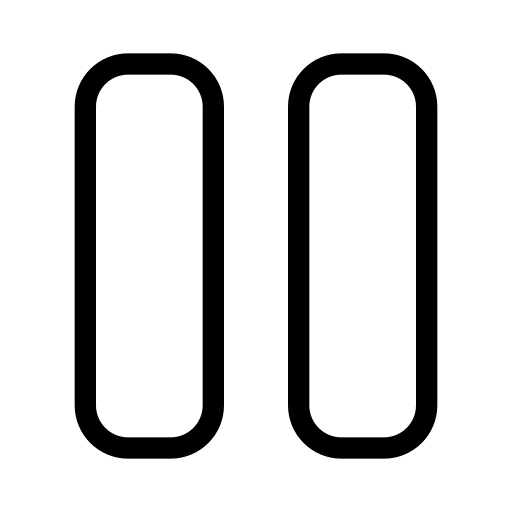
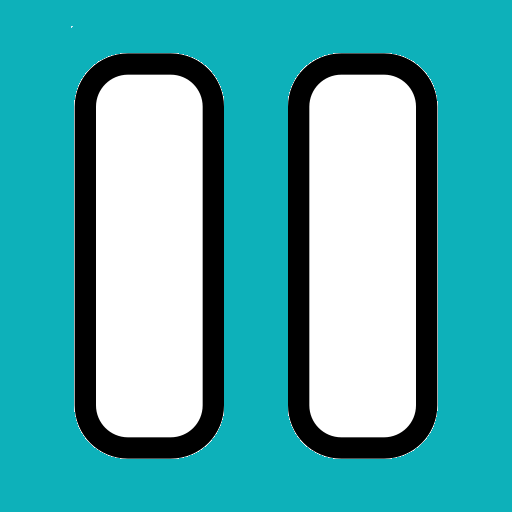
UCJeu ==> bouton pause + declenchement window Menu et declenchement reglesJeu dans la fenetre Menu

diff --git a/AquaSurvivor/Menu.xaml b/AquaSurvivor/Menu.xaml
@@ -1,0 +1,25 @@
+<Window x:Class="AquaSurvivor.Menu"
+        xmlns="http://schemas.microsoft.com/winfx/2006/xaml/presentation"
+        xmlns:x="http://schemas.microsoft.com/winfx/2006/xaml"
+        xmlns:d="http://schemas.microsoft.com/expression/blend/2008"
+        xmlns:mc="http://schemas.openxmlformats.org/markup-compatibility/2006"
+        xmlns:local="clr-namespace:AquaSurvivor"
+        mc:Ignorable="d"
+        Title="Menu" Height="308" Width="380" Background="#FF02ACB5">
+    <Grid>
+        <Label FontWeight="Bold" FontSize="18" Content="Vous êtes dans ....." Height="39" VerticalAlignment="Top"/>
+        <StackPanel Margin="0,49,0,0" Height="136" VerticalAlignment="Top" >
+            <Label Content="OBJECTIFS:  " FontSize="14" FontWeight="Bold"/>
+            <Label Content="1. OBJECTIFS: Attraper 30 perles pour passer à la rivière " FontSize="14" FontWeight="Bold"/>
+            <Label Content="2. OBJECTIFS: Attraper 40 perles pour passer au lac" FontWeight="Bold" FontSize="14"/>
+            <Label Content="3. OBJECTIFS: Attraper 55 perles pour passer à la mer" FontWeight="Bold" FontSize="14"/>
+            <Label Content="4. OBJECTIFS: Attraper 75 perles pour passer à l'océan" FontWeight="Bold" FontSize="14"/>
+        </StackPanel>
+        <Button x:Name="butReglesJeu" Content="REGLES DU JEU" Margin="110,197,0,0" VerticalAlignment="Top" Height="34" FontWeight="Bold" Click="butReglesJeu_Click" HorizontalAlignment="Left" Width="160"/>
+        <Button x:Name="butReprendre" Content="" Margin="110,236,0,0" Click="butReprendre_Click" HorizontalAlignment="Left" Width="38" Height="29" VerticalAlignment="Top"/>
+        <Button x:Name="butRejouer" Content="" HorizontalAlignment="Left" Margin="171,236,0,0" VerticalAlignment="Top" Height="29" Width="38" Click="butQuitterPartie_Click"/>
+        <Button x:Name="butQuitterPartie" Content="" Margin="232,236,0,0" VerticalAlignment="Top" Height="29" Click="butReprendre_Click" HorizontalAlignment="Left" Width="38"/>
+
+
+    </Grid>
+</Window>

diff --git a/AquaSurvivor/UCJeu.xaml b/AquaSurvivor/UCJeu.xaml
@@ -11,6 +11,15 @@
             <ImageBrush ImageSource="/img/Fonds/imgAquarium.png"/>
         </Canvas.Background>
         <Image x:Name="imgPoisson" Height="65" Canvas.Left="350" Source="/img/Poissons/imgPoisson1Droite.png" Stretch="Fill" Canvas.Top="328" Width="100"/>
-        <ProgressBar x:Name="barreFaim" Height="21"  Canvas.Top="58" Width="185" Value="100" RenderTransformOrigin="0.5,0.5" Canvas.Left="605" HorizontalAlignment="Center" VerticalAlignment="Top"/>
+        <ProgressBar x:Name="barreFaim" Height="21"  Canvas.Top="62" Width="185" Value="100" RenderTransformOrigin="0.5,0.5" Canvas.Left="605" HorizontalAlignment="Center" VerticalAlignment="Top"/>
+        <Button x:Name="butPause" Content="" Canvas.Left="739" Canvas.Top="10" Click="butPause_Click" HorizontalAlignment="Left" VerticalAlignment="Top" Width="51" Height="45">
+            <Button.Background>
+                <ImageBrush ImageSource="pack://application:,,,/img/Boutons/imgBoutonPause.png"/>
+            </Button.Background>
+        </Button>
+
+
+
     </Canvas>
+
 </UserControl>

diff --git a/AquaSurvivor/MainWindow.xaml.cs b/AquaSurvivor/MainWindow.xaml.cs
@@ -1,4 +1,5 @@
-using System.Text;
+using System.Reflection;
+using System.Text;
 using System.Windows;
 using System.Windows.Controls;
 using System.Windows.Data;
@@ -24,6 +25,7 @@ namespace AquaSurvivor
         {
             InitializeComponent();
             AfficheDemarrage();
+           
 
         }
         private void AfficheDemarrage()
@@ -35,7 +37,7 @@ namespace AquaSurvivor
             ZoneJeu.Content = uc;
             uc.but_Play.Click += AfficherReglesJeu;
         }
-
+        
         private void AfficherReglesJeu(object sender, RoutedEventArgs e)
         {
             UCReglesJeu uc = new UCReglesJeu();
@@ -43,6 +45,7 @@ namespace AquaSurvivor
             uc.but_Continuer.Click += AfficherChoixPoisson;
 
         }
+
 
         private void AfficherChoixPoisson(object sender, RoutedEventArgs e)
         {
@@ -63,8 +66,17 @@ namespace AquaSurvivor
         {
             UCJeu uc = new UCJeu();
             ZoneJeu.Content = uc;
-        }
+            uc.butPause.Click += AfficherMenu;
 
+        }
+        private void AfficherMenu(object sender, RoutedEventArgs e)
+        {
+            Menu fen = new Menu();
+            fen.ShowDialog();
+            fen.Left = this.Left + 450; 
+            fen.Top = this.Top + 150;
+            fen.butReglesJeu.Click += AfficherReglesJeu;
+        }
 
     }
 }

diff --git a/AquaSurvivor/Menu.xaml.cs b/AquaSurvivor/Menu.xaml.cs
@@ -1,0 +1,46 @@
+using System;
+using System.Collections.Generic;
+using System.Linq;
+using System.Text;
+using System.Threading.Tasks;
+using System.Windows;
+using System.Windows.Controls;
+using System.Windows.Data;
+using System.Windows.Documents;
+using System.Windows.Input;
+using System.Windows.Media;
+using System.Windows.Media.Imaging;
+using System.Windows.Shapes;
+
+namespace AquaSurvivor
+{
+    /// <summary>
+    /// Logique d'interaction pour Menu.xaml
+    /// </summary>
+    public partial class Menu : Window
+    {
+        public Menu()
+        {
+            InitializeComponent();
+            
+
+        }
+
+       
+        private void butReglesJeu_Click(object sender, RoutedEventArgs e)
+        {
+                                
+            
+        }
+
+        private void butReprendre_Click(object sender, RoutedEventArgs e)
+        {
+
+        }
+
+        private void butQuitterPartie_Click(object sender, RoutedEventArgs e)
+        {
+
+        }
+    }
+}

diff --git a/AquaSurvivor/UCJeu.xaml.cs b/AquaSurvivor/UCJeu.xaml.cs
@@ -79,5 +79,11 @@ namespace AquaSurvivor
             Application.Current.MainWindow.KeyDown += canvasJeu_KeyDown;
             //Application.Current.MainWindow.KeyUp += canvasJeu_KeyUp;
         }
+
+        private void butPause_Click(object sender, RoutedEventArgs e)
+        {
+           
+        }
+
     }
 }
